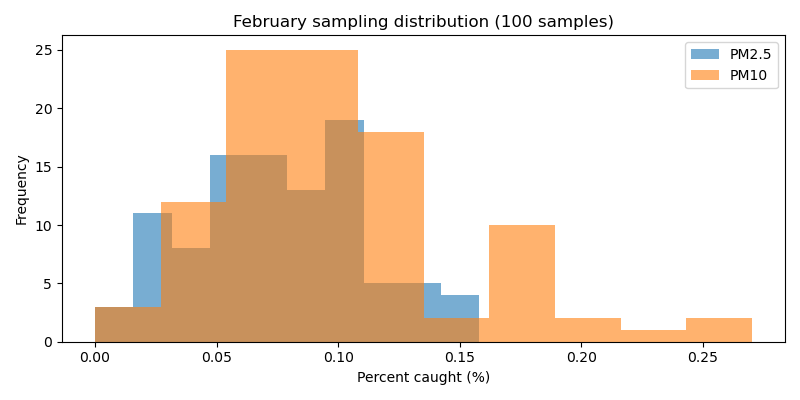
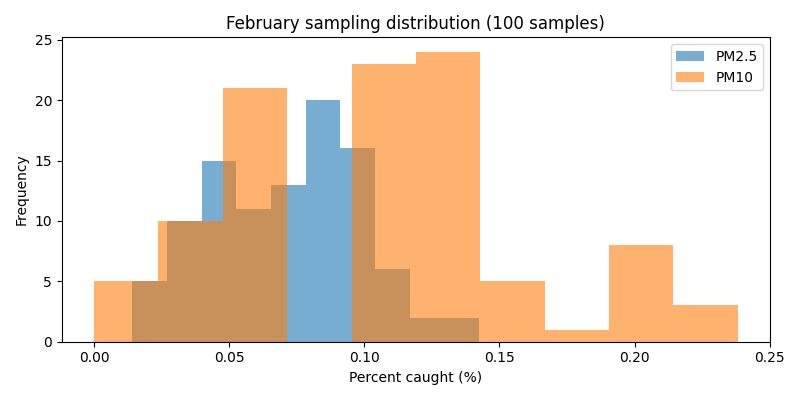
Update monthly sampling CSV and enhance histogram generation with capture rates and statistics

diff --git a/particle_motion.py b/particle_motion.py
@@ -315,10 +315,14 @@ def plot_monthly_caught_histograms(monthly_results, out_dir='monthly_caught_hist
     with open(csv_path, 'w', newline='') as csvfile:
         fieldnames = [
             'month', 'pm2_5_caught', 'pm2_5_escaped', 'pm10_caught', 'pm10_escaped',
-            'pm2_5_percent_caught', 'pm10_percent_caught'
+            'pm2_5_capture_rate', 'pm10_capture_rate', 'pm2_5_percent_caught', 'pm10_percent_caught',
+            'pm2_5_mean_rate', 'pm2_5_std_rate', 'pm10_mean_rate', 'pm10_std_rate'
         ]
         writer = csv.DictWriter(csvfile, fieldnames=fieldnames)
         writer.writeheader()
+
+        all_pm2_5_rates = []
+        all_pm10_rates = []
 
         for month, samples in monthly_results.items():
             pm2_5_caught = sum(sample['pm2_5_caught'] for sample in samples)
@@ -329,34 +333,95 @@ def plot_monthly_caught_histograms(monthly_results, out_dir='monthly_caught_hist
             pm25_perc = 100.0 * pm2_5_caught / (pm2_5_total + 1e-12)
             pm10_perc = 100.0 * pm10_caught / (pm10_total + 1e-12)
 
+            pm2_5_capture_rate = pm2_5_caught / (pm2_5_total + 1e-12)
+            pm10_capture_rate = pm10_caught / (pm10_total + 1e-12)
+
+            pm2_5_rates = [s['pm2_5_percent_caught'] / 100.0 for s in samples]
+            pm10_rates = [s['pm10_percent_caught'] / 100.0 for s in samples]
+            all_pm2_5_rates.extend(pm2_5_rates)
+            all_pm10_rates.extend(pm10_rates)
+
+            mean_pm2_5 = sum(pm2_5_rates) / len(pm2_5_rates)
+            mean_pm10 = sum(pm10_rates) / len(pm10_rates)
+            std_pm2_5 = (sum((r - mean_pm2_5)**2 for r in pm2_5_rates) / len(pm2_5_rates))**0.5
+            std_pm10 = (sum((r - mean_pm10)**2 for r in pm10_rates) / len(pm10_rates))**0.5
+
             writer.writerow({
                 'month': month,
                 'pm2_5_caught': pm2_5_caught,
                 'pm2_5_escaped': pm2_5_total - pm2_5_caught,
                 'pm10_caught': pm10_caught,
                 'pm10_escaped': pm10_total - pm10_caught,
+                'pm2_5_capture_rate': pm2_5_capture_rate,
+                'pm10_capture_rate': pm10_capture_rate,
                 'pm2_5_percent_caught': pm25_perc,
                 'pm10_percent_caught': pm10_perc,
+                'pm2_5_mean_rate': mean_pm2_5,
+                'pm2_5_std_rate': std_pm2_5,
+                'pm10_mean_rate': mean_pm10,
+                'pm10_std_rate': std_pm10,
             })
+
+            # append detail file or print
+            print(f"{month}: PM2.5 mean_rate={mean_pm2_5:.6f}, std={std_pm2_5:.6f}, PM10 mean_rate={mean_pm10:.6f}, std={std_pm10:.6f}")
 
             percent_samples_pm25 = [sample['pm2_5_percent_caught'] for sample in samples]
             percent_samples_pm10 = [sample['pm10_percent_caught'] for sample in samples]
 
             plt.figure(figsize=(8, 4))
-            plt.hist(percent_samples_pm25, bins=10, alpha=0.6, label='PM2.5')
-            plt.hist(percent_samples_pm10, bins=10, alpha=0.6, label='PM10')
+            plt.hist(percent_samples_pm25, bins=10, alpha=0.6, label='PM2.5 % caught')
+            plt.hist(percent_samples_pm10, bins=10, alpha=0.6, label='PM10 % caught')
             plt.xlabel('Percent caught (%)')
             plt.ylabel('Frequency')
-            plt.title(f'{month} sampling distribution ({len(samples)} samples)')
+            plt.title(f'{month} percent caught sampling distribution ({len(samples)} samples)')
             plt.legend()
+            plt.axvline(100*mean_pm2_5, color='blue', linestyle='--', label=f'PM2.5 mean {100*mean_pm2_5:.3f}%')
+            plt.axvline(100*mean_pm10, color='orange', linestyle='--', label=f'PM10 mean {100*mean_pm10:.3f}%')
+            plt.text(0.95, 0.95, f'PM2.5 σ={std_pm2_5:.4f}\nPM10 σ={std_pm10:.4f}', transform=plt.gca().transAxes, ha='right', va='top', bbox=dict(facecolor='white', alpha=0.75))
             plt.tight_layout()
 
-            filename_sampling = os.path.join(out_dir, f'{month.lower()}_sampling_hist.png')
-            plt.savefig(filename_sampling)
+            filename_percent_sampling = os.path.join(out_dir, f'{month.lower()}_percent_sampling_hist.png')
+            plt.savefig(filename_percent_sampling)
             if show_plots:
                 plt.show()
             plt.close()
-            print(f"Saved sampling histogram for {month} to {filename_sampling}")
+            print(f"Saved percent sampling histogram for {month} to {filename_percent_sampling}")
+
+            plt.figure(figsize=(8, 4))
+            plt.hist(pm2_5_rates, bins=10, alpha=0.6, label='PM2.5 capture rate')
+            plt.hist(pm10_rates, bins=10, alpha=0.6, label='PM10 capture rate')
+            plt.xlabel('Capture rate (fraction)')
+            plt.ylabel('Frequency')
+            plt.title(f'{month} capture rate sampling distribution ({len(samples)} samples)')
+            plt.legend()
+            plt.axvline(mean_pm2_5, color='blue', linestyle='--', label=f'PM2.5 mean {mean_pm2_5:.6f}')
+            plt.axvline(mean_pm10, color='orange', linestyle='--', label=f'PM10 mean {mean_pm10:.6f}')
+            plt.text(0.95, 0.95, f'PM2.5 σ={std_pm2_5:.6f}\nPM10 σ={std_pm10:.6f}', transform=plt.gca().transAxes, ha='right', va='top', bbox=dict(facecolor='white', alpha=0.75))
+            plt.tight_layout()
+
+            filename_rate_sampling = os.path.join(out_dir, f'{month.lower()}_rate_sampling_hist.png')
+            plt.savefig(filename_rate_sampling)
+            if show_plots:
+                plt.show()
+            plt.close()
+            print(f"Saved capture rate sampling histogram for {month} to {filename_rate_sampling}")
+
+        # aggregate all months total histogram
+        plt.figure(figsize=(10, 5))
+        plt.hist(all_pm2_5_rates, bins=20, alpha=0.6, label='PM2.5 capture rate')
+        plt.hist(all_pm10_rates, bins=20, alpha=0.6, label='PM10 capture rate')
+        plt.xlabel('Capture rate (fraction)')
+        plt.ylabel('Frequency')
+        plt.title('Combined all-month capture rate sampling distribution')
+        plt.legend()
+        plt.tight_layout()
+
+        filename_all_rate = os.path.join(out_dir, 'all_months_rate_sampling_hist.png')
+        plt.savefig(filename_all_rate)
+        if show_plots:
+            plt.show()
+        plt.close()
+        print(f"Saved all-month capture rate sampling histogram to {filename_all_rate}")
 
     print(f"Saved monthly aggregated CSV data to {csv_path}")
 
@@ -561,8 +626,12 @@ if __name__ == "__main__":
         pm10_caught = sum(s['pm10_caught'] for s in sample_list)
         pm10_total = sum(s['pm10_total'] for s in sample_list)
 
+        pm2_5_capture_rate = pm2_5_caught / (pm2_5_total + 1e-12)
+        pm10_capture_rate = pm10_caught / (pm10_total + 1e-12)
+
         print(f"{month}: PM2.5 avg caught %={(100*pm2_5_caught/(pm2_5_total+1e-12)):.3f}, "
-              f"PM10 avg caught %={(100*pm10_caught/(pm10_total+1e-12)):.3f}")
+              f"PM10 avg caught %={(100*pm10_caught/(pm10_total+1e-12)):.3f}, "
+              f"PM2.5 rate={pm2_5_capture_rate:.5f}, PM10 rate={pm10_capture_rate:.5f}")
 
     try:
         plot_monthly_caught_histograms(monthly_samples, out_dir='monthly_sampling_hists', csv_path='monthly_sampling.csv', show_plots=False)
